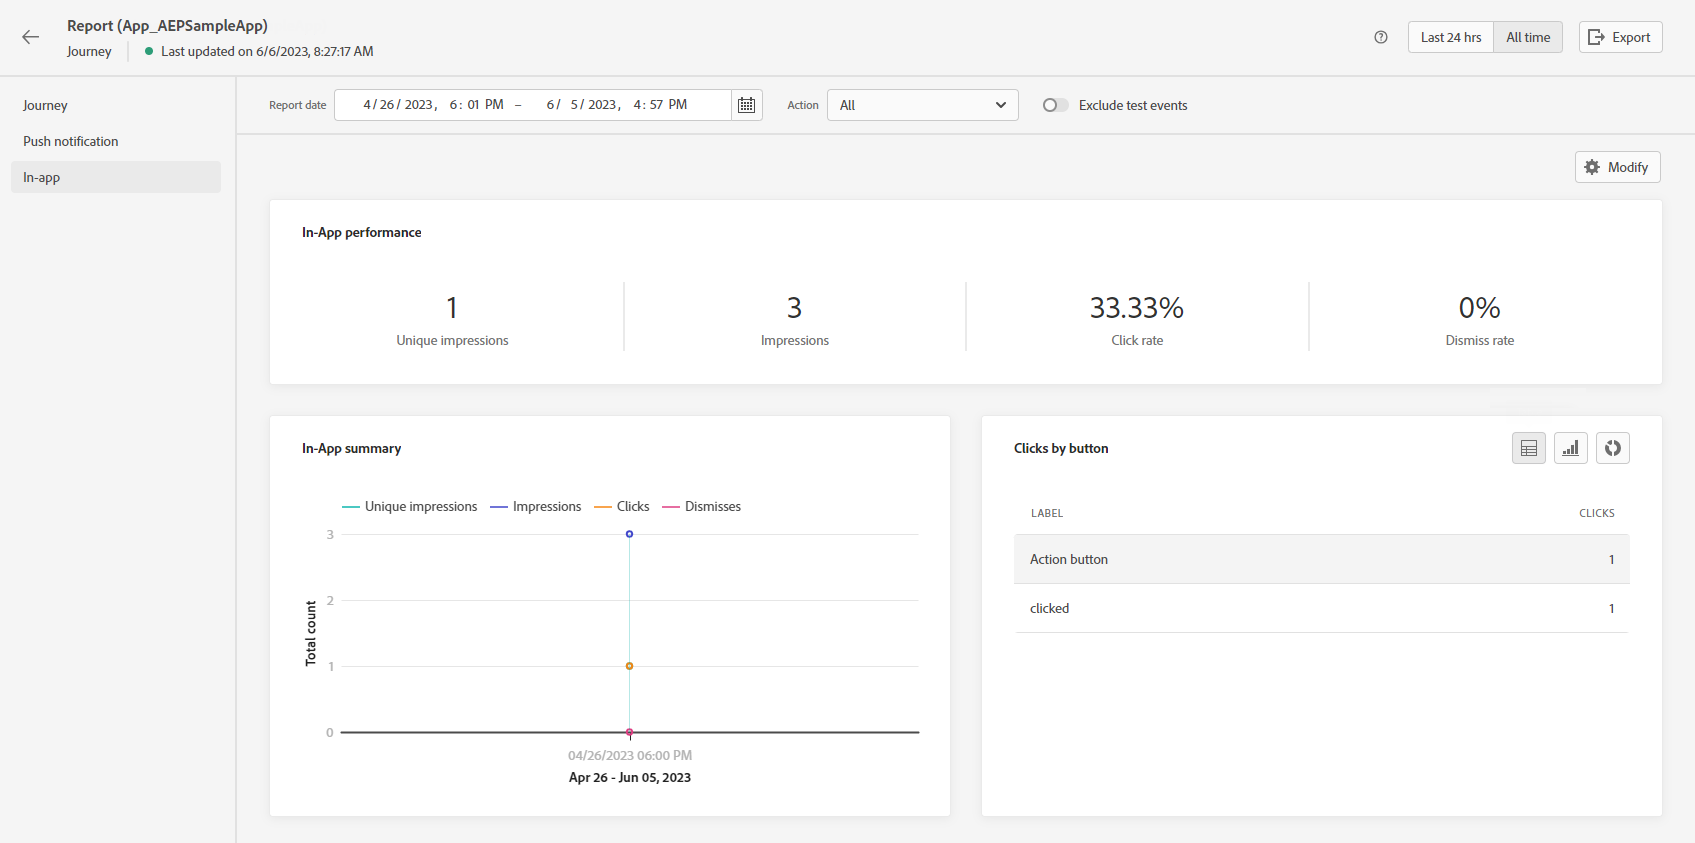
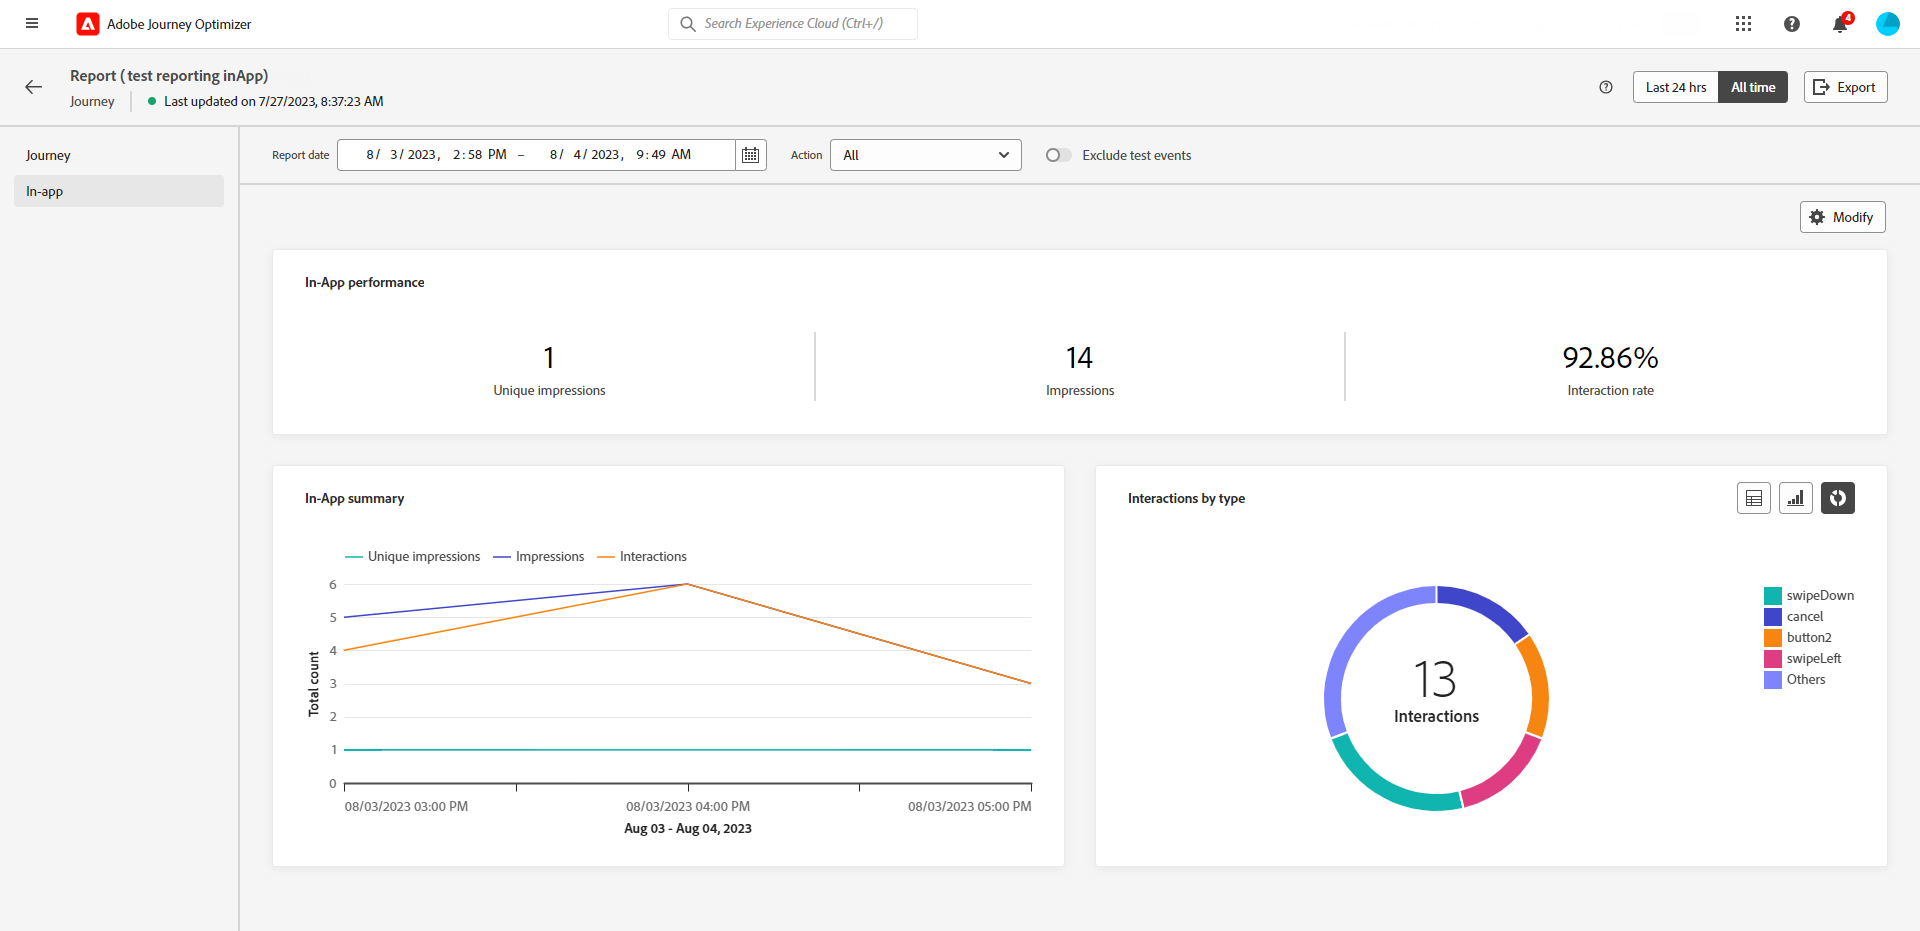
update clicks => interaction

diff --git a/help/using/reports/campaign-live-report.md b/help/using/reports/campaign-live-report.md
@@ -159,21 +159,19 @@ The **[!UICONTROL Exclude Reasons]**, **[!UICONTROL Bounces Reasons]** and **[!U
 
 ## Web tab {#web-tab}
 
-From your Campaign **[!UICONTROL Global report]**, the **[!UICONTROL Web]** tab details the main information relative to your Web pages.
+From your Campaign **[!UICONTROL Live report]**, the **[!UICONTROL Web]** tab details the main information relative to your Web pages.
 
 +++Learn more on the different metrics and widgets available for the Web report.
 
 The **[!UICONTROL Web performance]** KPIs detail the main information relative to your visitors' engagement with your web experiences, such as:
 
-* **[!UICONTROL Unique impressions]**: number of unique users to whom the web experience was delivered.
-
 * **[!UICONTROL Impressions]**: total number of web experiences delivered to all users.
 
-* **[!UICONTROL Clicks]**: total number of URL visits.
+* **[!UICONTROL Interactions]**:  total number of engagements with your Web page. This includes any actions taken by the users, such as clicks or any other interactions.
 
-The **[!UICONTROL Web summary]** graph shows the evolution of your web experiences (impressions, unique impressions and clicks) for the concerned period.
+The **[!UICONTROL Web summary]** graph shows the evolution of your web experiences (impressions, unique impressions and interactions) for the last 24 hours.
 
-The **[!UICONTROL Clicks by element]** table details the main information relative to your visitors' engagement with the various elements on your web pages.
+The **[!UICONTROL Interactions by element]** table details the main information relative to your visitors' engagement with the various elements on your web pages.
 +++
 
 ## Additional resources

diff --git a/help/using/reports/journey-global-report.md b/help/using/reports/journey-global-report.md
@@ -306,15 +306,9 @@ The **[!UICONTROL In-app performance]** KPIs detail the main information relativ
     > 
     >Due to the second criterion, there may be notable variations between the number of targeted profiles and the count of unique impressions.
 
-* **[!UICONTROL Click rate]**: percentage of users who interacted with the buttons included in the In-app message compared to users who saw the message.
+* **[!UICONTROL Interaction rate]**: percentage of engagements with your In-app message. This includes any actions taken by the users, such as clicks, dismissals, or any other interactions.
 
-* **[!UICONTROL Dismiss rate]**: percentage of In-app messages that recipients dismissed.
+The **[!UICONTROL In-app summary]** graph shows the evolution of your In-app impressions and interactions for the concerned period.
 
-The **[!UICONTROL In-app summary]** graph shows the evolution of your In-app impressions for the concerned period.
-
-The **[!UICONTROL Clicks by button]** graphs and table contain the available data for recipient behavior per button:
-
-* **[!UICONTROL Clicks]**: total number of recipients who interacted with the buttons included in the In-app message.
-
-* **[!UICONTROL Click rate]**: percentage of users who interacted with the buttons included in the In-app message compared to users who saw the message.
+The **[!UICONTROL Interactions by type]** graphs and table details how users interacted with your in-app message by tracking any click, dismiss, or interaction.
 +++

diff --git a/help/using/reports/journey-live-report.md b/help/using/reports/journey-live-report.md
@@ -183,18 +183,18 @@ The **[!UICONTROL Exclude Reasons]** graphs and tables allow you to see which er
 
 ## In-app tab {#in-app-live}
 
+![](assets/journey_live_5.png)
+
 +++Learn more on the different metrics and widgets available for the In-app report.
 
 The **[!UICONTROL In-app performance]** KPIs detail the main information relative to your visitors’ engagement with your In-app messages, such as:
 
-* **[!UICONTROL Unique impressions]**: number of unique users to whom the In-app message was delivered.
-
 * **[!UICONTROL Impressions]**: total number of In-app messages delivered to all users.
 
-The **[!UICONTROL In-app summary]** graph shows the evolution of your In-app impressions for the concerned period.
+* **[!UICONTROL Interactions]**:  total number of engagements with your In-app message. This includes any actions taken by the users, such as clicks, dismissals, or any other interactions.
 
-The **[!UICONTROL Clicks by button]** graphs and table contain the available data for recipient behavior per button:
+The **[!UICONTROL In-app summary]** graph shows the evolution of your In-app impressions and interactions for the concerned period.
 
-* **[!UICONTROL Clicks]**: total number of recipients who interacted with the buttons included in the In-app message.
+The **[!UICONTROL Interactions by type]** graphs and table details how users interacted with your in-app message by tracking any click, dismiss, or interaction.
 
 +++

diff --git a/help/using/reports/campaign-global-report.md b/help/using/reports/campaign-global-report.md
@@ -338,11 +338,11 @@ The **[!UICONTROL Web performance]** KPIs detail the main information relative t
 
 * **[!UICONTROL Impressions]**: total number of web experiences delivered to all users.
 
-* **[!UICONTROL Click rate]**: percentage of visitors who interacted with the various elements on your web pages.
+* **[!UICONTROL Interaction rate]**: percentage of engagements with your Web page. This includes any actions taken by the users, such as clicks or any other interactions.
 
-The **[!UICONTROL Web summary]** graph shows the evolution of your web experiences (impressions, unique impressions and clicks) for the concerned period.
+The **[!UICONTROL Web summary]** graph shows the evolution of your web experiences (impressions, unique impressions and interactions) for the concerned period.
 
-The **[!UICONTROL Clicks by element]** table details the main information relative to your visitors' engagement with the various elements on your web pages.
+The **[!UICONTROL Interactions by element]** table details the main information relative to your visitors' engagement with the various elements on your web pages.
 +++
 
 ## Additional resources
